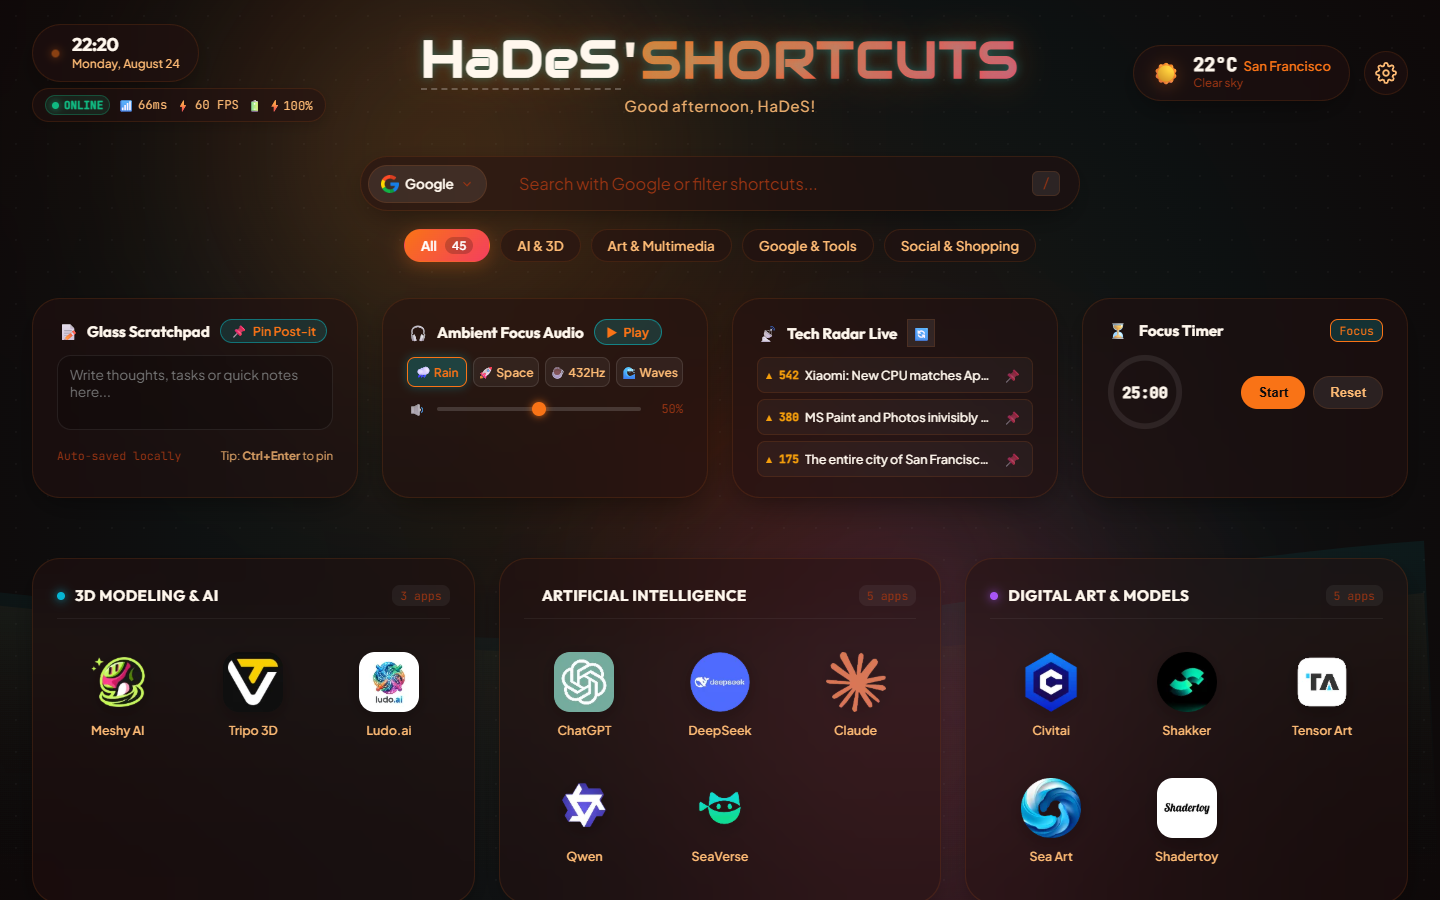
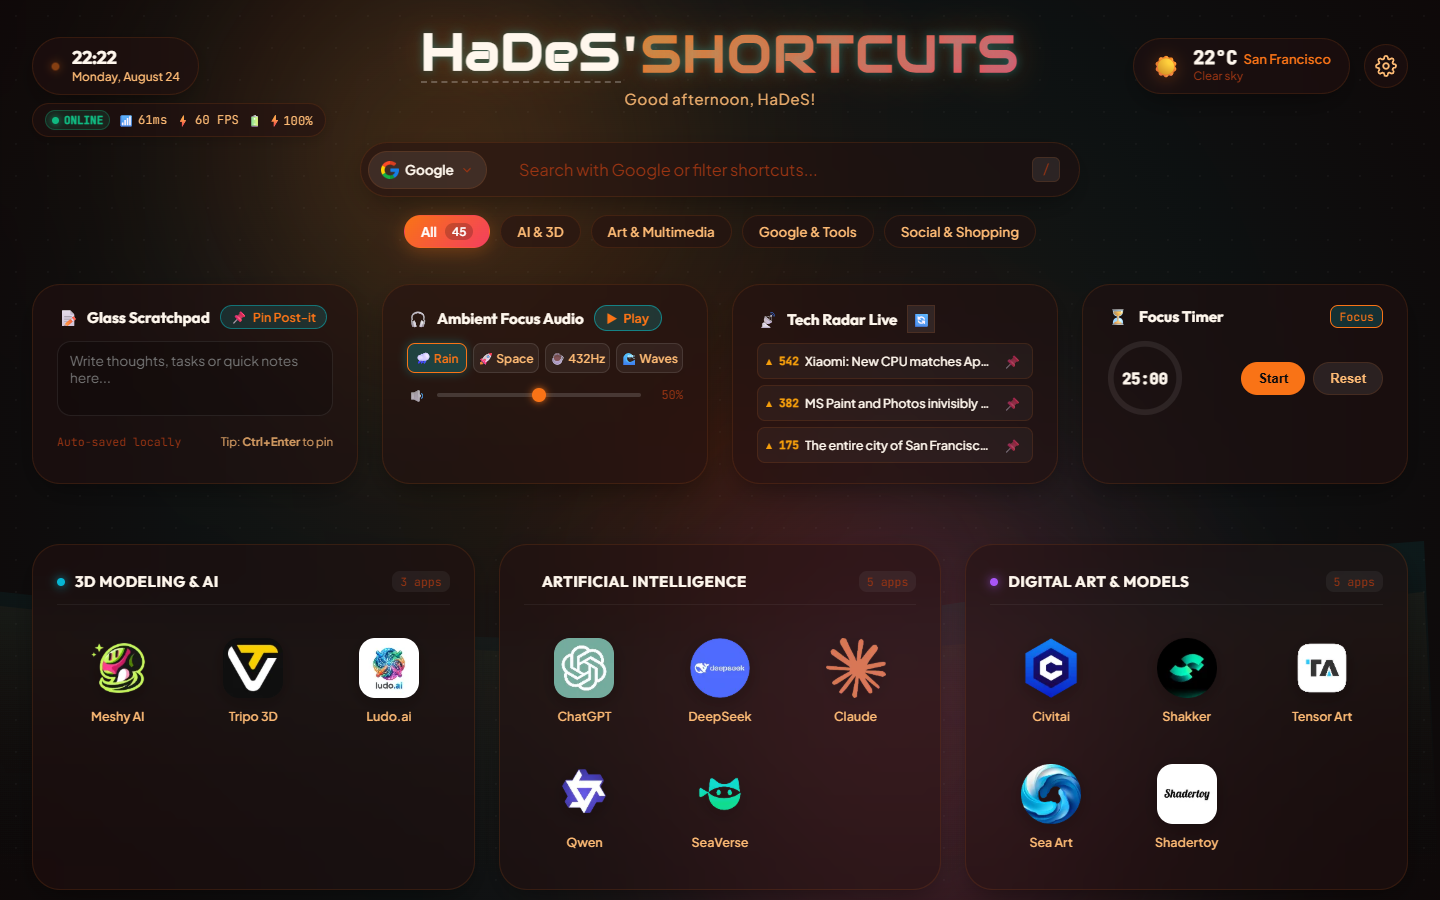
style(header): achieve 100% pixel-perfect vertical symmetry between clock and weather with telemetry cleanly docked beneath

diff --git a/style.css b/style.css
@@ -211,11 +211,11 @@ body {
 
 /* Clock & Left Widgets Container */
 .nav-widgets-left {
-    display: flex;
+    display: inline-flex;
     flex-direction: column;
     align-items: flex-start;
-    gap: 6px;
     justify-self: start;
+    position: relative;
 }
 
 /* Live Clock Glass Capsule Box */
@@ -4146,6 +4146,9 @@ input:checked + .slider:before {
 
 /* Telemetry Capsule 4-Indicator System */
 .telemetry-capsule {
+    position: absolute;
+    top: calc(100% + 8px);
+    left: 0;
     display: inline-flex;
     align-items: center;
     gap: 10px;
@@ -4162,6 +4165,8 @@ input:checked + .slider:before {
     transition: var(--transition-fast);
     user-select: none;
     box-shadow: 0 4px 12px rgba(0, 0, 0, 0.15);
+    white-space: nowrap;
+    z-index: 5;
 }
 
 .telemetry-capsule:hover {
